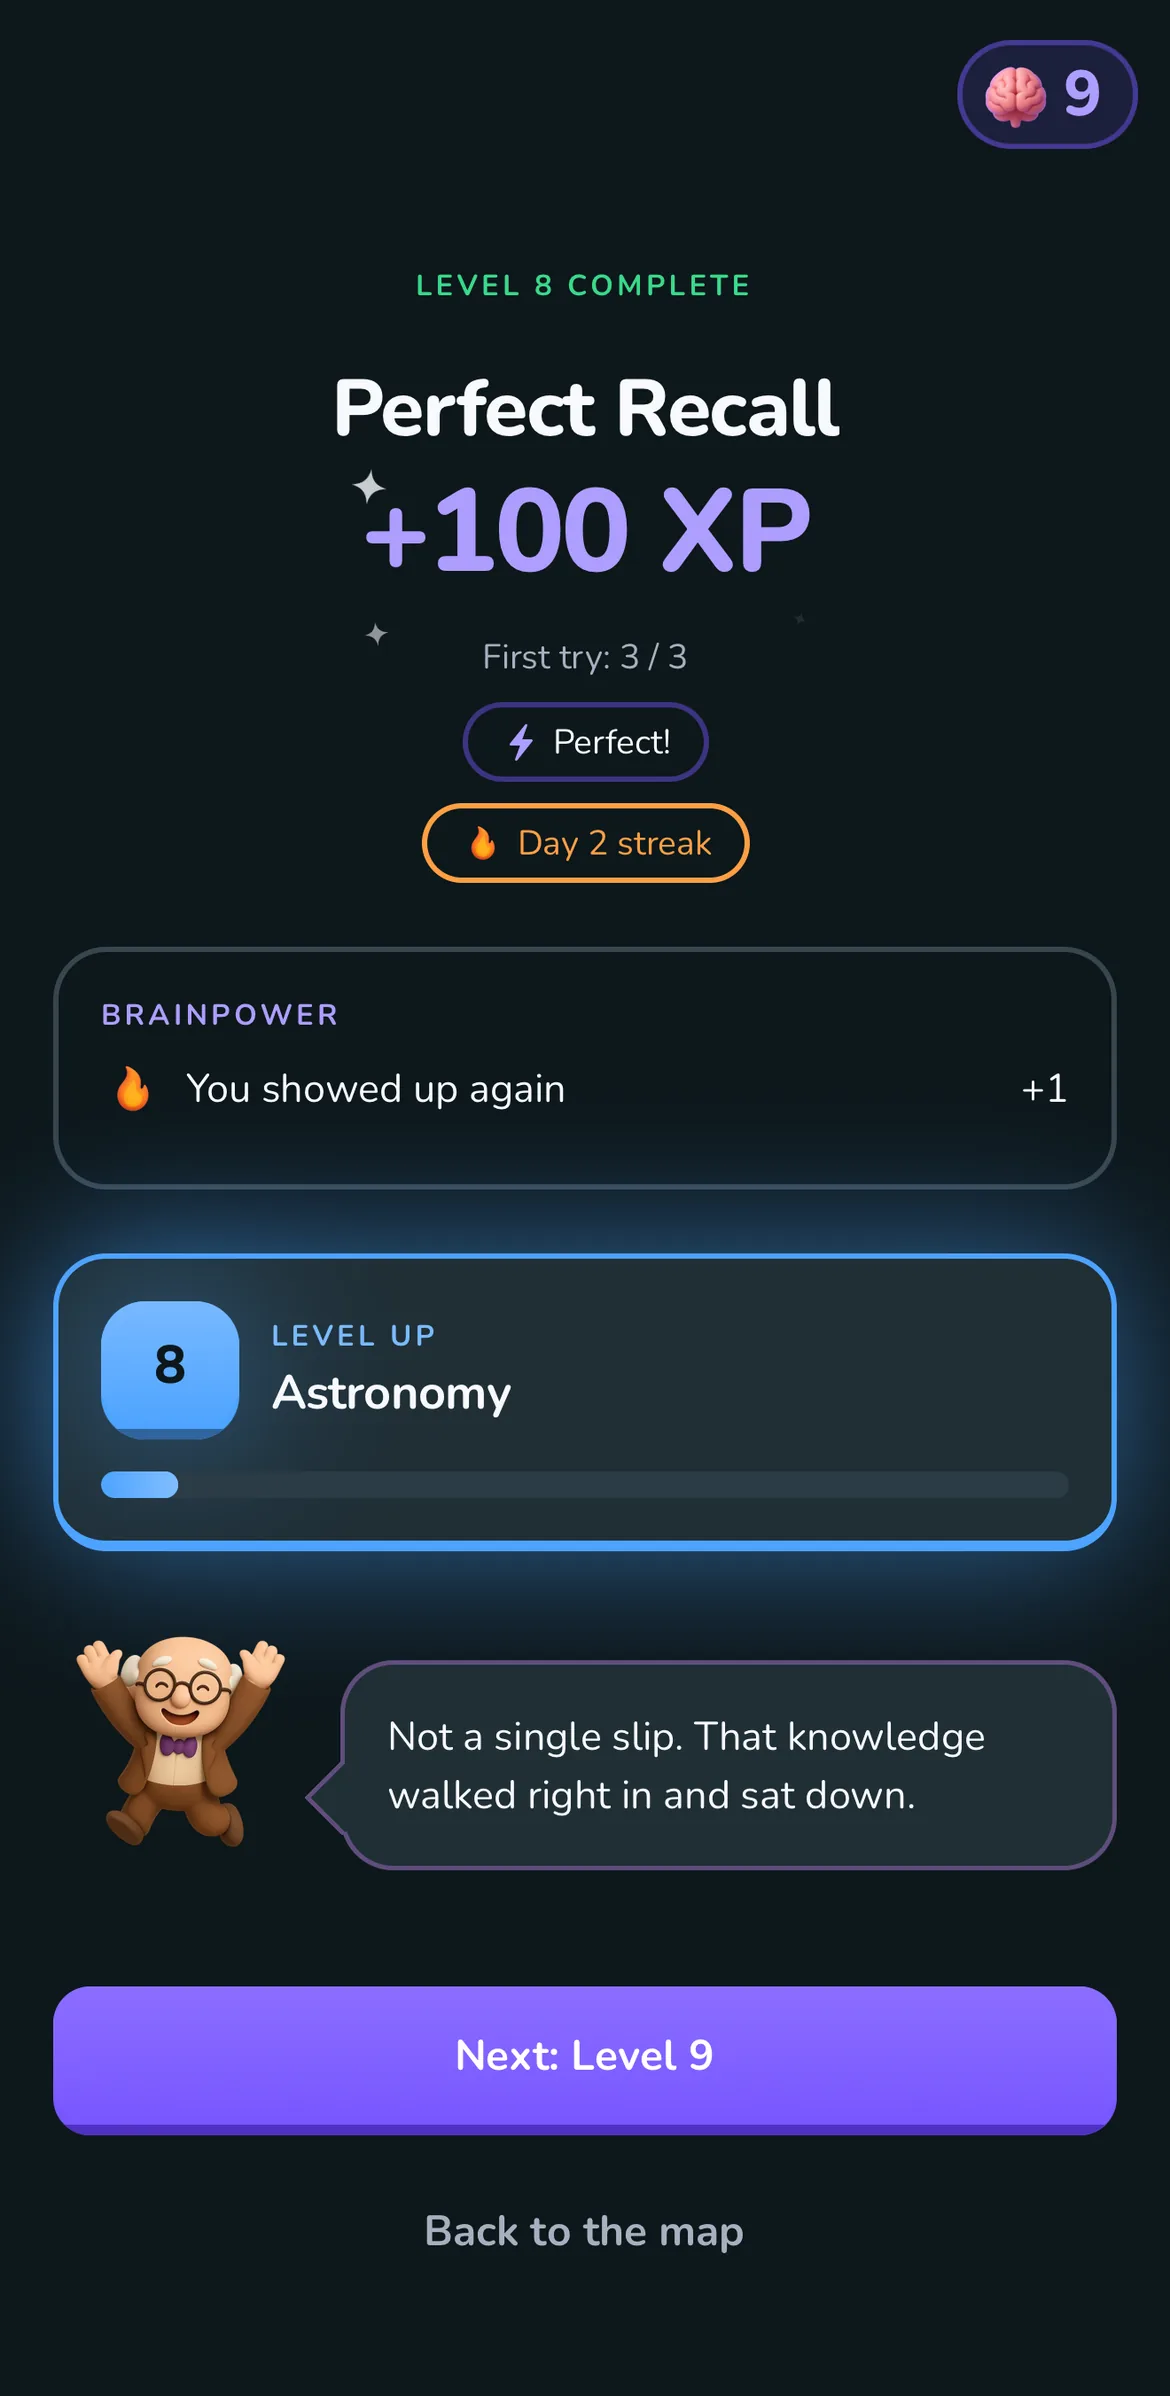
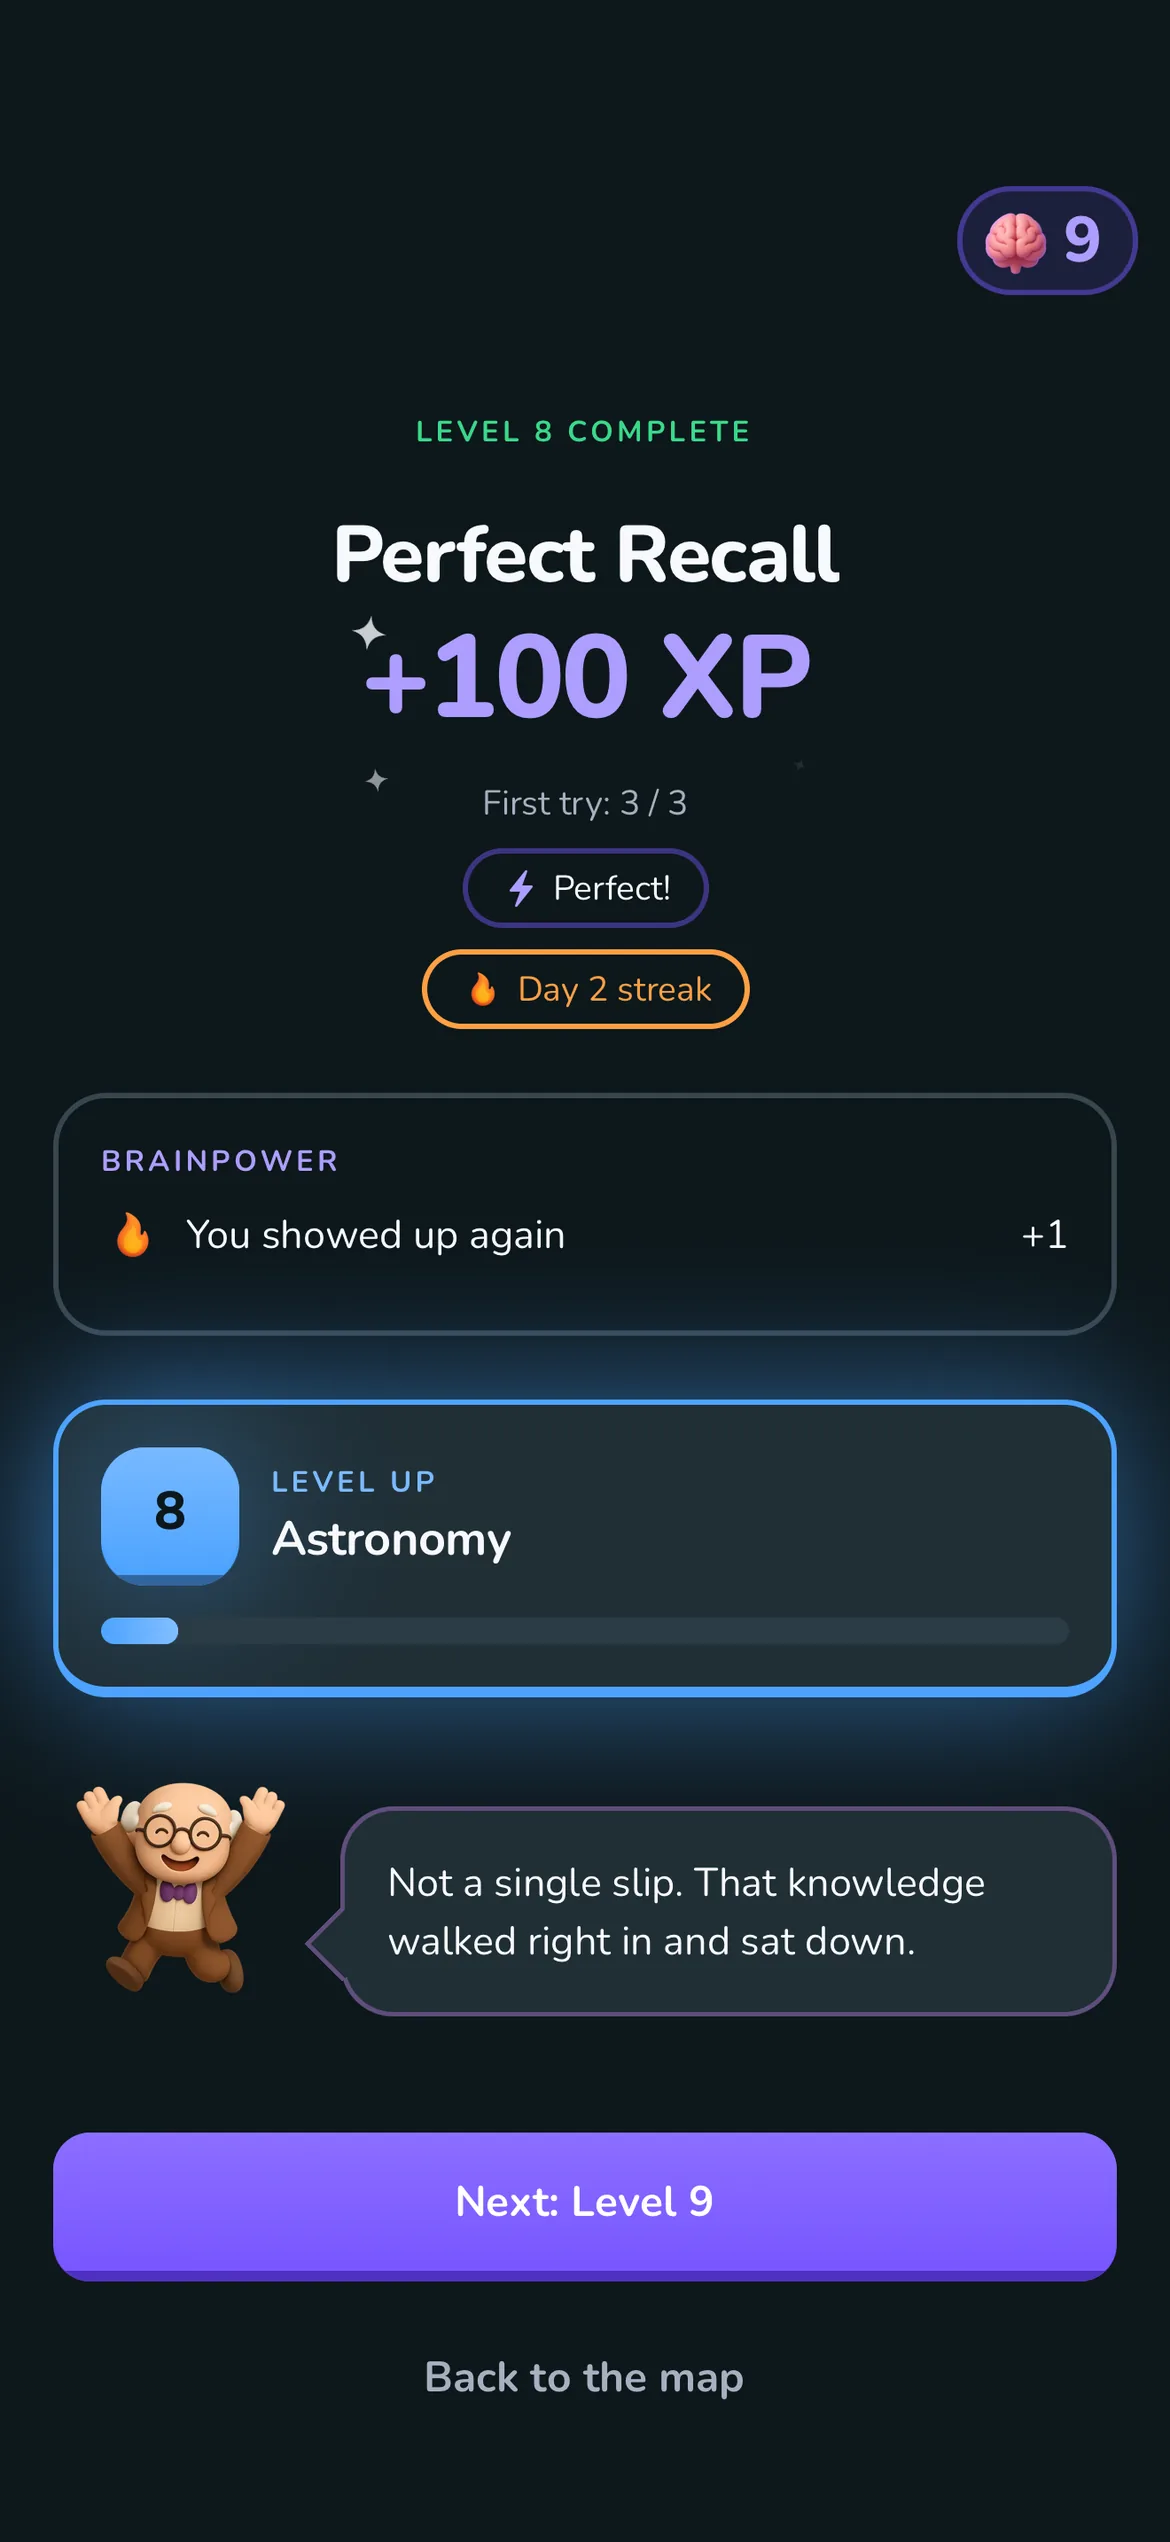
Website: each screen fills its phone, island area included
The phone frame used to pad the screenshot with the app's dark background
above and below, which showed as a dark bar under the island on the purple
profile screen. site/screens.mjs now makes the site's screens from the
promo set with the status bar filled by each screen's own top edge, and
the frame draws the island and home bar over the screenshot instead.

Claude-Session: https://claude.ai/code/session_01EwSpp1ySrzExTB2LA7xjCv

diff --git a/brainscroll/site/src/index.html b/brainscroll/site/src/index.html
@@ -39,7 +39,7 @@
     </div>
     <div class="hero-art">
       <img class="mascot big" src="/img/mascot/wave.webp" alt="Dr. Scroll, waving" width="220" height="220">
-      <div class="phone"><img src="/img/screens/home.webp" alt="The BrainScroll home screen: up next, and every subject to pick from" width="390" height="799"></div>
+      <div class="phone"><img src="/img/screens/home.webp" alt="The BrainScroll home screen: up next, and every subject to pick from" width="390" height="847"></div>
     </div>
   </section>
 
@@ -53,17 +53,17 @@
     </div>
     <div class="steps">
       <article class="card">
-        <div class="phone small"><img src="/img/screens/lesson.webp" alt="A learning card: Andromeda, the nearest large spiral galaxy" width="390" height="799" loading="lazy"></div>
+        <div class="phone small"><img src="/img/screens/lesson.webp" alt="A learning card: Andromeda, the nearest large spiral galaxy" width="390" height="847" loading="lazy"></div>
         <h3>Learn in levels</h3>
         <p>Each level is a few short cards that make one idea click, then three questions. Real ideas, explained well, no filler.</p>
       </article>
       <article class="card">
-        <div class="phone small"><img src="/img/screens/question.webp" alt="A missed answer, with the card that explains it" width="390" height="799" loading="lazy"></div>
+        <div class="phone small"><img src="/img/screens/question.webp" alt="A missed answer, with the card that explains it" width="390" height="847" loading="lazy"></div>
         <h3>Get it wrong, then get it right</h3>
         <p>Your first try earns the XP. Miss one and you see the card that explains it, then try again until it's yours.</p>
       </article>
       <article class="card">
-        <div class="phone small"><img src="/img/screens/complete.webp" alt="Level complete with XP earned" width="390" height="799" loading="lazy"></div>
+        <div class="phone small"><img src="/img/screens/complete.webp" alt="Level complete with XP earned" width="390" height="847" loading="lazy"></div>
         <h3>Remember it for good</h3>
         <p>Smart review brings ideas back just before you'd forget them, so what you learn this week is still there next year.</p>
       </article>
@@ -77,8 +77,8 @@
       <p>Every level you clear raises your brain level and fills your subject ring. Climb a tree from Level 1 to 100 to master it and earn its gold star, collect trophies along the way, and keep a streak going on the days you learn.</p>
     </div>
     <div class="split-art">
-      <div class="phone"><img src="/img/screens/profile.webp" alt="Your profile: the brain ring with your avatar, level and stats" width="390" height="799" loading="lazy"></div>
-      <div class="phone offset"><img src="/img/screens/skill-map.webp" alt="A skill tree's path of levels, with its chapter pinned at the top" width="390" height="799" loading="lazy"></div>
+      <div class="phone"><img src="/img/screens/profile.webp" alt="Your profile: the brain ring with your avatar, level and stats" width="390" height="847" loading="lazy"></div>
+      <div class="phone offset"><img src="/img/screens/skill-map.webp" alt="A skill tree's path of levels, with its chapter pinned at the top" width="390" height="847" loading="lazy"></div>
     </div>
   </section>
 
@@ -90,7 +90,7 @@
       <p>Add friends with a link or a username. Every week you join a league of up to 20 learners. The top three win bonus XP, and the top five move up a tier, from Quartz all the way to the Crown. Cheer each other on with hearts. No chat, no comments, just learning.</p>
     </div>
     <div class="split-art">
-      <div class="phone"><img src="/img/screens/league.webp" alt="A weekly league ranked by XP" width="390" height="799" loading="lazy"></div>
+      <div class="phone"><img src="/img/screens/league.webp" alt="A weekly league ranked by XP" width="390" height="847" loading="lazy"></div>
     </div>
   </section>
 

diff --git a/brainscroll/site/src/home.css b/brainscroll/site/src/home.css
@@ -73,13 +73,13 @@ section > * { max-width: 1080px; margin-left: auto; margin-right: auto; }
 [hidden] { display: none !important; }
 
 .phone {
-  /* A phone: a dark bezel, the app's own background for the status bar and home bar,
-     and the screenshot in between, so nothing is cut by the rounded corners. */
+  /* A phone: a dark bezel around the whole screen, the island and home bar drawn over it.
+     Each screenshot's top edge fills the status bar (site/screens.mjs), so a coloured
+     screen like the profile runs up to the top as it does on a phone. */
   position: relative;
   background: #131f24;
   border: 9px solid #0b1215;
   border-radius: 46px;
-  padding: 30px 0 18px;
   box-shadow: 0 0 0 2px #3d4f58, 0 28px 70px rgba(0, 0, 0, 0.55);
   overflow: hidden;
 }
@@ -94,7 +94,7 @@ section > * { max-width: 1080px; margin-left: auto; margin-right: auto; }
   width: 34%; height: 4px; border-radius: 999px; background: #5a6a73;
 }
 .phone img { width: 100%; height: auto; }
-.phone.small { width: 180px; margin: 0 auto 20px; border-width: 7px; border-radius: 34px; padding: 22px 0 13px; }
+.phone.small { width: 180px; margin: 0 auto 20px; border-width: 7px; border-radius: 34px; }
 .phone.small::before { top: 6px; height: 10px; }
 .phone.small::after { bottom: 4px; height: 3px; }
 
@@ -114,8 +114,8 @@ h2 { font-size: clamp(28px, 6vw, 42px); }
 .split-art { display: flex; justify-content: center; align-items: flex-start; gap: 20px; }
 /* Two phones side by side, the first a little bigger and the second dropped a little,
    with a slim frame so they keep a real phone's proportions. */
-.split-art .phone { width: min(280px, 53%); border-width: 7px; border-radius: 38px; padding: 16px 0 10px; }
-.split-art .phone::before { top: 5px; height: 9px; width: 26%; }
+.split-art .phone { width: min(280px, 53%); border-width: 7px; border-radius: 38px; }
+.split-art .phone::before { top: 10px; height: 10px; width: 28%; }
 .split-art .phone::after { bottom: 3px; height: 3px; }
 .split-art .phone.offset { width: min(250px, 47%); margin-top: 56px; }
 .split-art .phone:only-child { width: min(240px, 70%); }

diff --git a/brainscroll/CHANGELOG.md b/brainscroll/CHANGELOG.md
@@ -5,7 +5,7 @@ Concise record of completed work. Newest first. Product rules live in `docs/spec
 
 ## 2026-10-10: Weekly Quests scheduled; instant updates fit
 
-- **The website shows today's app, with real store badges** (owner: "do an app store apple link and google play link? and lets replace all the screenshots on the website with the ones we've been working with now"). Its seven phone screens are the promo set's (home, the Andromeda card, Take another look, Level Complete, the skill map, the league and the @curious_mind profile), without their status bars. The store buttons are Apple's and Google's official badges, and each appears once its link is set in `scripts/site-build.ts` (`STORE_URLS`, empty for now; both links are written beside it), so before launch the page says "Coming soon to iPhone and Android." and with only the App Store live it shows that badge and "Android coming soon". The App Store link goes in once Apple approves 1.0 (docs/release.md). The profile and skill map pair no longer leaves an empty strip under the profile screen (owner's screenshot: the two phones were stretched to the same height, so the first grew by the second's drop); each keeps its own height now, the profile a little bigger (owner: "make it slightly bigger than the one next to it"). Copy brought in line with the app: "no lives", not "no hearts" (the feed has hearts), and the league text names the top three's bonus XP and the tiers from Quartz to the Crown.
+- **The website shows today's app, with real store badges** (owner: "do an app store apple link and google play link? and lets replace all the screenshots on the website with the ones we've been working with now"). Its seven phone screens are the promo set's (home, the Andromeda card, Take another look, Level Complete, the skill map, the league and the @curious_mind profile), made by `node site/screens.mjs`: each keeps the whole screen with its status bar filled by the screen's own top edge, and the frame draws the island and home bar over it, so the profile's purple runs up behind the island (owner: "still have an empty bar at the top at the island area") and no screen shows a band of another colour above or below. The store buttons are Apple's and Google's official badges, and each appears once its link is set in `scripts/site-build.ts` (`STORE_URLS`, empty for now; both links are written beside it), so before launch the page says "Coming soon to iPhone and Android." and with only the App Store live it shows that badge and "Android coming soon". The App Store link goes in once Apple approves 1.0 (docs/release.md). The profile and skill map pair no longer leaves an empty strip under the profile screen (owner's screenshot: the two phones were stretched to the same height, so the first grew by the second's drop); each keeps its own height now, the profile a little bigger (owner: "make it slightly bigger than the one next to it"). Copy brought in line with the app: "no lives", not "no hearts" (the feed has hearts), and the league text names the top three's bonus XP and the tiers from Quartz to the Crown.
 - **1.0.0 (8) submitted to App Review; widgets planned for 1.1** (owner: "a simple 7 dots, filled in for each day of the week ... with drscroll in it. then a up next, and a drscroll fact one"). docs/build-order.md has an After launch list: a This week widget (seven dots for the learning days, Dr. Scroll beside them, a missed day just an empty dot, never a warning), Up next (opens straight into the next level) and a daily Dr. Scroll fact from levels already cleared, with how they'd be built.
 - **Fixed: Social showed a gray screen on its first visit** (owner, on build 7: "it happens every time that I open a lesson, exit it, go home, then go to social. It's gray. Then I go home, then back to social, and it's appearing properly"). Tabs slid and faded in (`animation: 'shift'`) on the native side, and on a tab's first visit the animation could start before the new screen existed, leaving it invisible until the next switch. Tabs now switch instantly, like iPhone tab bars, so there's nothing left to miss.
 - **Fixed: a gray screen after going back** (owner: "ill go to a page then go back and its just a gray screen and i have to change tabs a couple times to get it to appear"). Hidden screens used to freeze (`freezeOnBlur` on the root stack, the tabs and the Home stack), and a frozen screen nested inside the tabs could stay blank after going back until the tabs were switched. Nothing freezes now. Instead `Screen` keeps showing what it last drew while it's out of view and skips redrawing until it's back, so a lesson still doesn't redraw the skill map underneath it (measured on the web build: the map's level path drew once as the lesson opened, 10 renders, against 80 with no freezing at all), and anything inside that changes by itself still draws. Both e2e suites pass.
